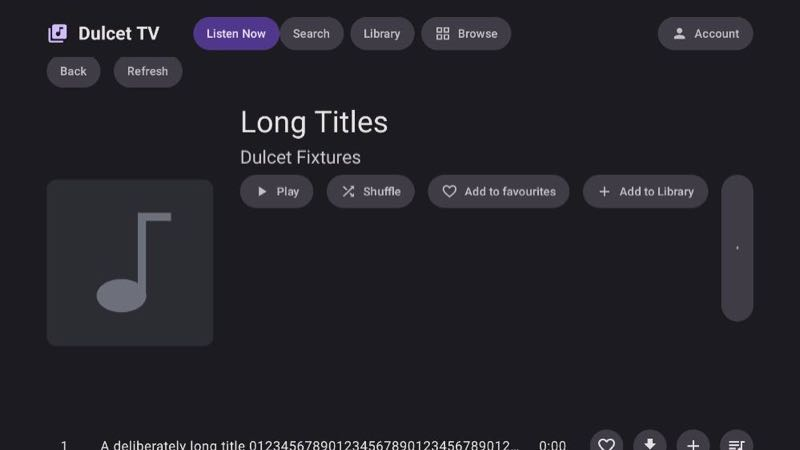
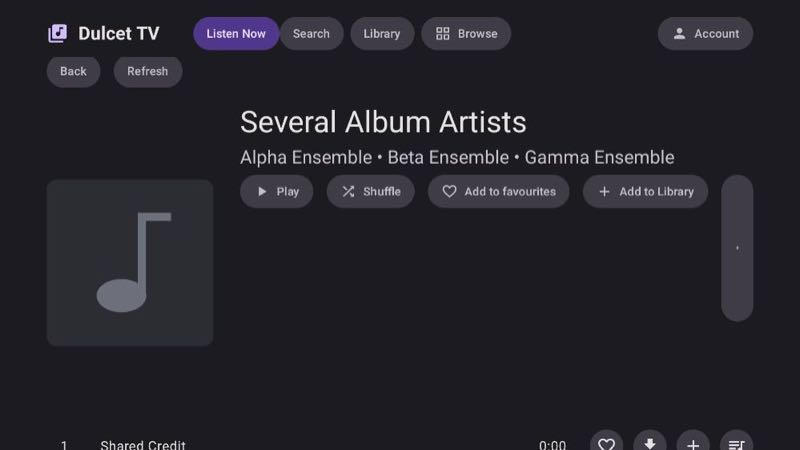
Add final Android and native phone Home runtime evidence

Changed region(s): [[0.2812, 0.2489, 0.8438, 0.3733], [0.125, 0.9644, 0.6562, 1.0]]

diff --git a/docs/evidence/listen-now.md b/docs/evidence/listen-now.md
@@ -84,12 +84,14 @@ not native UI execution.
 
 | Control | Observed result | Evidence |
 | --- | --- | --- |
-| Android phone Home, plain REST | 1 passed, 0 skipped | [core-ci 38992589271](https://github.com/legitimate-apps/dulcet/actions/runs/38992589271), phone fallback XML |
+| Android phone Home, plain REST | 1 passed, 0 skipped | [core-ci 38995786940](https://github.com/legitimate-apps/dulcet/actions/runs/38995786940), phone fallback XML |
 | Android phone Home, Dulcet Server | 1 passed, 0 skipped | Same run, `listen-now-dulcet/results` XML; whole phone job passed |
 | Android TV Home, plain REST | 1 passed, 0 skipped | Same run, TV fallback XML |
 | Android TV Home, Dulcet Server | 1 passed, 0 skipped | Same run, `listen-now-dulcet/results` XML |
 | Mac hosted production Home | 1 passed, 0 skipped; reached Home, album and return markers | [Apple run 38991471536](https://github.com/legitimate-apps/dulcet/actions/runs/38991471536), Mac Home JUnit and three screen captures |
-| Native iPhone/iPad/Apple TV Home | Pending | [Apple fixture run 38991471536](https://github.com/legitimate-apps/dulcet/actions/runs/38991471536) |
+| iPhone Home | 1 passed, 0 skipped; 35.622 seconds | [Apple run 38991471536](https://github.com/legitimate-apps/dulcet/actions/runs/38991471536), retained Home JUnit/xcresult |
+| iPad Home | 1 passed, 0 skipped; 51.905 seconds | Same run, separate iPad Home JUnit/xcresult |
+| Apple TV Home and corrected Mac connection controls | Pending | [replacement native run 38995086942](https://github.com/legitimate-apps/dulcet/actions/runs/38995086942) |
 | Full core/server/API and Android integration gate | Follow the PR checks; prior full run failed legacy TV setup before server tests | [PR #329 checks](https://github.com/legitimate-apps/dulcet/pull/329/checks) |
 
 Run 38992589271's following TV Library split control still assumed Library was the initial
@@ -104,13 +106,22 @@ Host soaks all passed 20/20 repetitions: [production Library](https://github.com
 (two methods, 40 executions), [simple phone Search](https://github.com/legitimate-apps/dulcet/actions/runs/38991408220)
 (one method, 20 executions), [production phone Search](https://github.com/legitimate-apps/dulcet/actions/runs/38992586654)
 (one method, 20 executions), and [TV Home/Library/Search](https://github.com/legitimate-apps/dulcet/actions/runs/38992589407)
-(ten methods, 200 executions). The production Search control continues to require device-only
+(ten methods, 200 executions). The remaining TV genre/sort/play/playlist controls passed
+[20/20 repetitions](https://github.com/legitimate-apps/dulcet/actions/runs/38995783421)
+(eight methods, 160 executions, zero skips). The production Search control continues to require device-only
 one-character results, unique identities and remote canaries; Home may populate additional valid
 cached catalog rows.
 
-Local Android TV Home instrumentation passed 1/1 in 39.724 seconds against a disposable Dulcet
-Server. The three reviewed photos show the New on Your Server shelf, opened album and relaunched
-Home. They predate the final focus-arrival adjustment; hosted execution validates that adjustment.
+Local Android TV Home instrumentation also passed 1/1 in 39.724 seconds against a disposable
+Dulcet Server. The committed Android photos are from the final hosted production Home controls
+in run 38995786940: both phone and TV Home tests passed on both server types, with all three
+photos retained per fixture. The phone header respects the status bar and hidden empty shelves
+leave no extra vertical gaps. A photograph may show another shelf's loading placeholder while
+the already populated New on Your Server shelf is usable.
+
+![Android phone Listen Now](listen-now/android-phone-home.jpg)
+![Android TV Listen Now](listen-now/android-tv-newest.jpg)
+![Android TV album opened from Home](listen-now/android-tv-album.jpg)
 
 Local Apple simulator enumeration stopped responding before UI execution; no shared runtime
 restart or host reboot was performed. The local phone emulator produced system UI ANRs and was
@@ -128,6 +139,13 @@ Reviewed Mac proof images:
 
 ![Mac Listen Now](listen-now/macos-home.jpg)
 ![Mac album opened from Home](listen-now/macos-album.jpg)
+
+The earlier iPhone and iPad jobs were cancelled during later, unrelated controls. Their retained
+Home JUnit files each contain one passing, non-skipped case; the whole workflow is not reported
+as green. The screenshots below are from those completed Home controls.
+
+![iPhone Listen Now](listen-now/iphone-home.jpg)
+![iPad Listen Now](listen-now/ipad-home.jpg)
 
 ## Integration boundary
 
